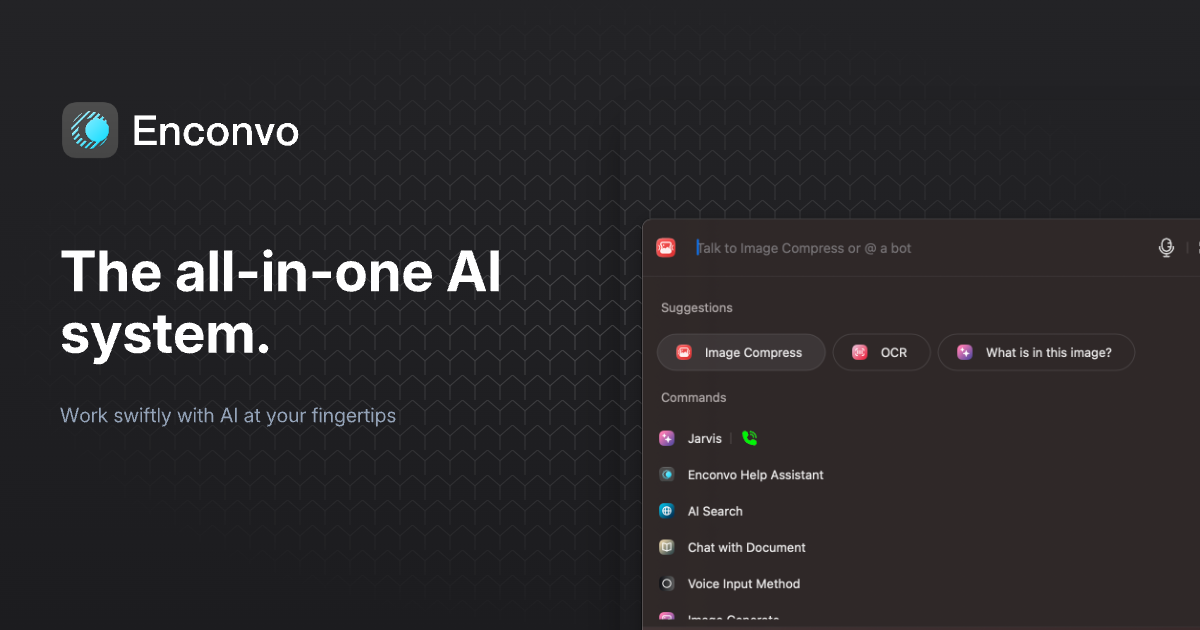
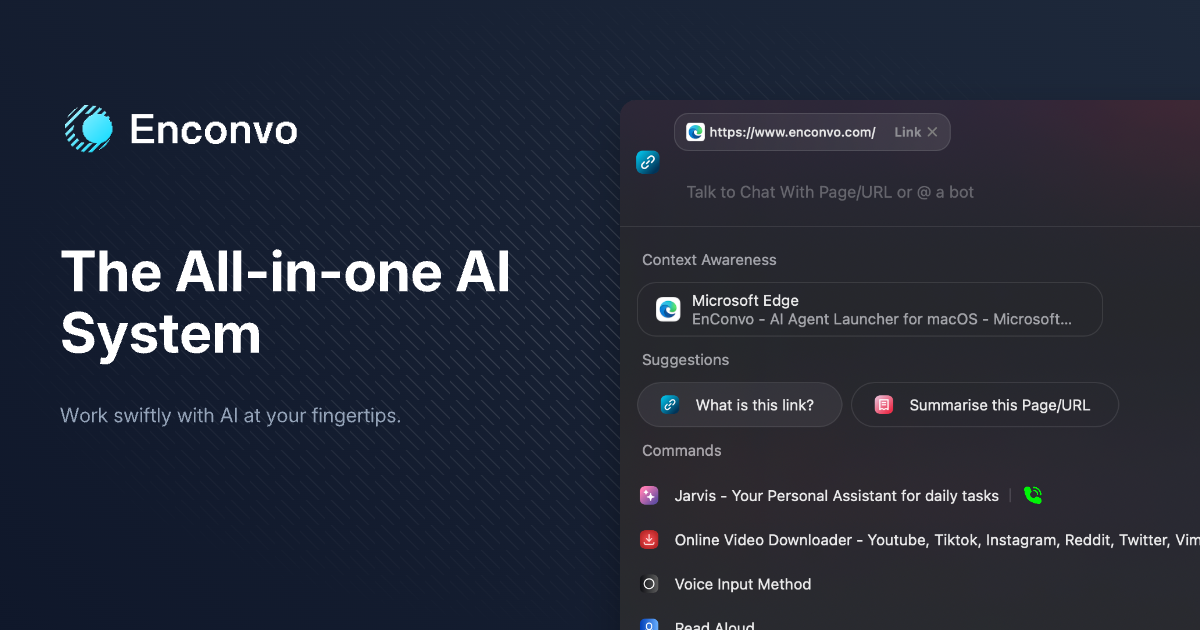
update video

diff --git a/src/components/Hero.jsx b/src/components/Hero.jsx
@@ -4,7 +4,7 @@ import { Bars3Icon, XMarkIcon } from '@heroicons/react/24/outline'
 import Link from "next/link";
 import { Logo } from "@/components/Logo";
 import Image from 'next/image';
-import allInOne from '@/images/ai_launcher.png'
+import allInOne from '@/images/all-in-one.png'
 import {
     createClientComponentClient
 } from '@supabase/auth-helpers-nextjs'
@@ -216,11 +216,11 @@ export function Hero() {
 
                     <div className="mx-auto max-w-5xl text-center">
                         <h1 className="bg-gradient-to-r from-red-500 to-blue-500 text-transparent bg-clip-text text-3xl font-bold tracking-tight sm:text-6xl pb-2">
-                            The AI Agent Launcher
+                            The AI Launcher
                         </h1>
 
                         <p className="mt-10 text-sm sm:text-base leading-8 text-gray-300">
-                            Discover EnConvo - your AI Agent Launcher that revolutionizes productivity. With instant access, automate your daily tasks effortlessly. Our intelligent AI Agent system, powered by 150+ built-in tools and MCP support, learns and adapts to your workflow. Experience seamless automation and enhanced productivity with the most versatile AI assistant for macOS.
+                            Discover EnConvo - your AI Launcher that revolutionizes productivity. With instant access, automate your daily tasks effortlessly. Our intelligent AI system, powered by 150+ built-in tools and MCP support, learns and adapts to your workflow. Experience seamless automation and enhanced productivity with the most versatile AI assistant for macOS.
                         </p>
                         <div className="mt-10 sm:mt-20 flex flex-col items-center  gap-x-6">
 
@@ -300,7 +300,7 @@ export function Hero() {
                                 autoPlay
                                 muted
                             >
-                                <source src="https://file.enconvo.com/ai_launcher.mp4" type="video/mp4" />
+                                <source src="https://file.enconvo.com/enconvo.mp4" type="video/mp4" />
                             </video>
                         )}
                     </div>
